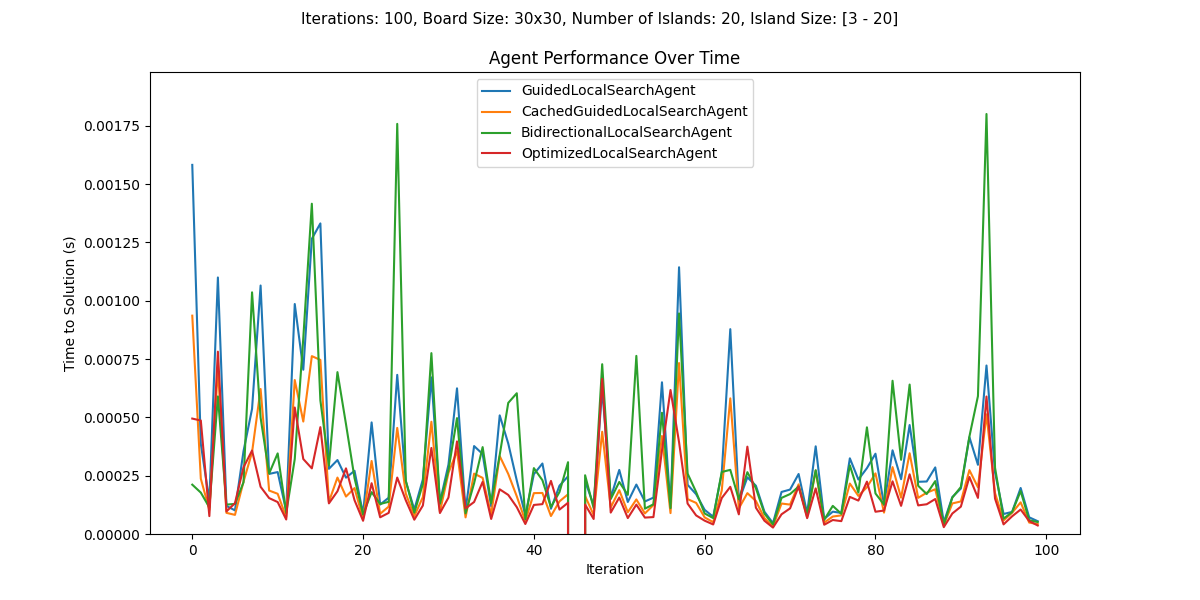
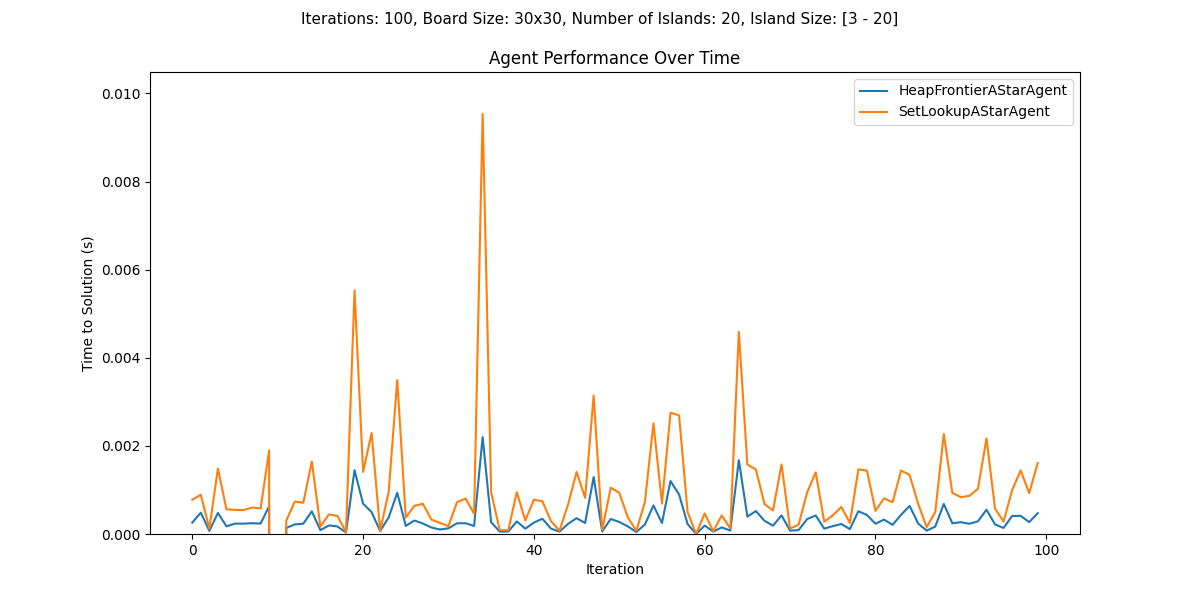
Made optimized file prettier

diff --git a/optimized_agents.py b/optimized_agents.py
@@ -4,7 +4,6 @@ import heapq
 
 ''' ===============================================================================================================
     Local Search Agents
-    1. GuidedLocalSearchAgent
     2. MemoryLookupLocalSearchAgent
     3. CachedGuidedLocalSearchAgent
     4. BidirectionalLocalSearchAgent
@@ -273,6 +272,14 @@ class BidirectionalLocalSearchAgent(GuidedLocalSearchAgent):
         return (heuristic_val) * (penalty + 1)
     
 class OptimizedLocalSearchAgent(CachedGuidedLocalSearchAgent):
+    '''
+    Top of the line local search agent. Combines the best optimizations:
+        - A cache for storing heuristic
+        - A penalty system to avoid infinite loops
+        - A heap for finding the best next move
+        - Use of the manhattan distance heuristic
+
+    '''
     def __init__(self, color, i, j, goal_i, goal_j, board):
         super().__init__(color, i, j, goal_i, goal_j, board)
 
@@ -363,15 +370,15 @@ class OptimizedLocalSearchAgent(CachedGuidedLocalSearchAgent):
     A* Agents
     1. MatrixLookupAStarAgent
     2. SetLookupAStarAgent
-    3. CachedAStarAgent
-    4. SetLookupCachedAStarAgent
-    5. HeapFrontierAStarAgent
+    3. HeapFrontierAStarAgent
+    4. CachedAStarAgent
+    5. SetLookupCachedAStarAgent
     6. OptimizedAStarAgent
 '''
 
 class MatrixLookupAStarAgent(AStarAgent):
     '''
-    Change the data structure to a matrix
+    Change the 'searched' data structure to a matrix
     '''
     def __init__(self, color, i, j, goal_i, goal_j, board):
         super().__init__(color, i, j, goal_i, goal_j, board)
@@ -467,55 +474,6 @@ class SetLookupAStarAgent(AStarAgent):
         board[self.i][self.j] = self
         self.searched.add((self.i, self.j))
 
-    
-class CachedAStarAgent(AStarAgent):
-    def __init__(self, color, i, j, goal_i, goal_j, board):
-        super().__init__(color, i, j, goal_i, goal_j, board)
-
-    def name(self):
-        return 'CachedAStarAgent'
-
-    @lru_cache(maxsize=256)
-    def heuristic(self, i=None, j=None):
-        '''
-        Give the straightline distance between current position and goal, ignoring obstacles
-        '''
-        if i == None:
-            i = self.i
-        if j == None:
-            j = self.j
-        self.heuristic_calls += 1
-        return ((self.goal_i - i) ** 2 + (self.goal_j - j) ** 2) ** (1/2)
-    
-class SetLookupCachedAStarAgent(CachedAStarAgent):
-    def __init__(self, color, i, j, goal_i, goal_j, board):
-        super().__init__(color, i, j, goal_i, goal_j, board)
-        self.searched = set() # use a set here for faster lookup
-
-    def name(self):
-        return 'SetLookupCachedAStarAgent'
-    
-    def move(self, board):
-        '''
-        Moves the given agent on the board
-        '''
-        if self.is_goal():
-            return
-        
-        moves = self.open_moves(board)
-        self.frontier += moves
-        
-        if not self.frontier:
-            self.no_solution = True
-            return
-
-        idx = self.get_choice(self.frontier, self.heuristic)
-        coord = self.frontier.pop(idx)
-
-        board[self.i][self.j] = 0
-        self.i, self.j = coord
-        board[self.i][self.j] = self
-        self.searched.add((self.i, self.j))
 
 class HeapFrontierAStarAgent(AStarAgent):
     '''
@@ -573,6 +531,56 @@ class HeapFrontierAStarAgent(AStarAgent):
             check_searhced = modified_coord not in self.searched and modified_coord not in self.frontier
             if is_valid and check_searhced and (not board[i][j] or board[i][j] == 1):
                 heapq.heappush(self.frontier, modified_coord)
+
+    
+class CachedAStarAgent(AStarAgent):
+    def __init__(self, color, i, j, goal_i, goal_j, board):
+        super().__init__(color, i, j, goal_i, goal_j, board)
+
+    def name(self):
+        return 'CachedAStarAgent'
+
+    @lru_cache(maxsize=256)
+    def heuristic(self, i=None, j=None):
+        '''
+        Give the straightline distance between current position and goal, ignoring obstacles
+        '''
+        if i == None:
+            i = self.i
+        if j == None:
+            j = self.j
+        self.heuristic_calls += 1
+        return ((self.goal_i - i) ** 2 + (self.goal_j - j) ** 2) ** (1/2)
+    
+class SetLookupCachedAStarAgent(CachedAStarAgent):
+    def __init__(self, color, i, j, goal_i, goal_j, board):
+        super().__init__(color, i, j, goal_i, goal_j, board)
+        self.searched = set() # use a set here for faster lookup
+
+    def name(self):
+        return 'SetLookupCachedAStarAgent'
+    
+    def move(self, board):
+        '''
+        Moves the given agent on the board
+        '''
+        if self.is_goal():
+            return
+        
+        moves = self.open_moves(board)
+        self.frontier += moves
+        
+        if not self.frontier:
+            self.no_solution = True
+            return
+
+        idx = self.get_choice(self.frontier, self.heuristic)
+        coord = self.frontier.pop(idx)
+
+        board[self.i][self.j] = 0
+        self.i, self.j = coord
+        board[self.i][self.j] = self
+        self.searched.add((self.i, self.j))
 
 
 class OptimizedAStarAgent(CachedAStarAgent):

diff --git a/testing.py b/testing.py
@@ -172,7 +172,7 @@ if __name__ == '__main__':
     # agents = [GuidedLocalSearchAgent, BidirectionalLocalSearchAgent]
     # agents = [AStarAgent, ObstacleAdjustmentAStarAgent]
     # agents = [MemoryLookupLocalSearchAgent, GuidedLocalSearchAgent]
-    agents = [GuidedLocalSearchAgent, CachedGuidedLocalSearchAgent, BidirectionalLocalSearchAgent, OptimizedLocalSearchAgent]
+    agents = [HeapFrontierAStarAgent, SetLookupAStarAgent]
     # agents = [SetLookupCachedAStarAgent, OptimizedAStarAgent]
 
     iterations = 100
